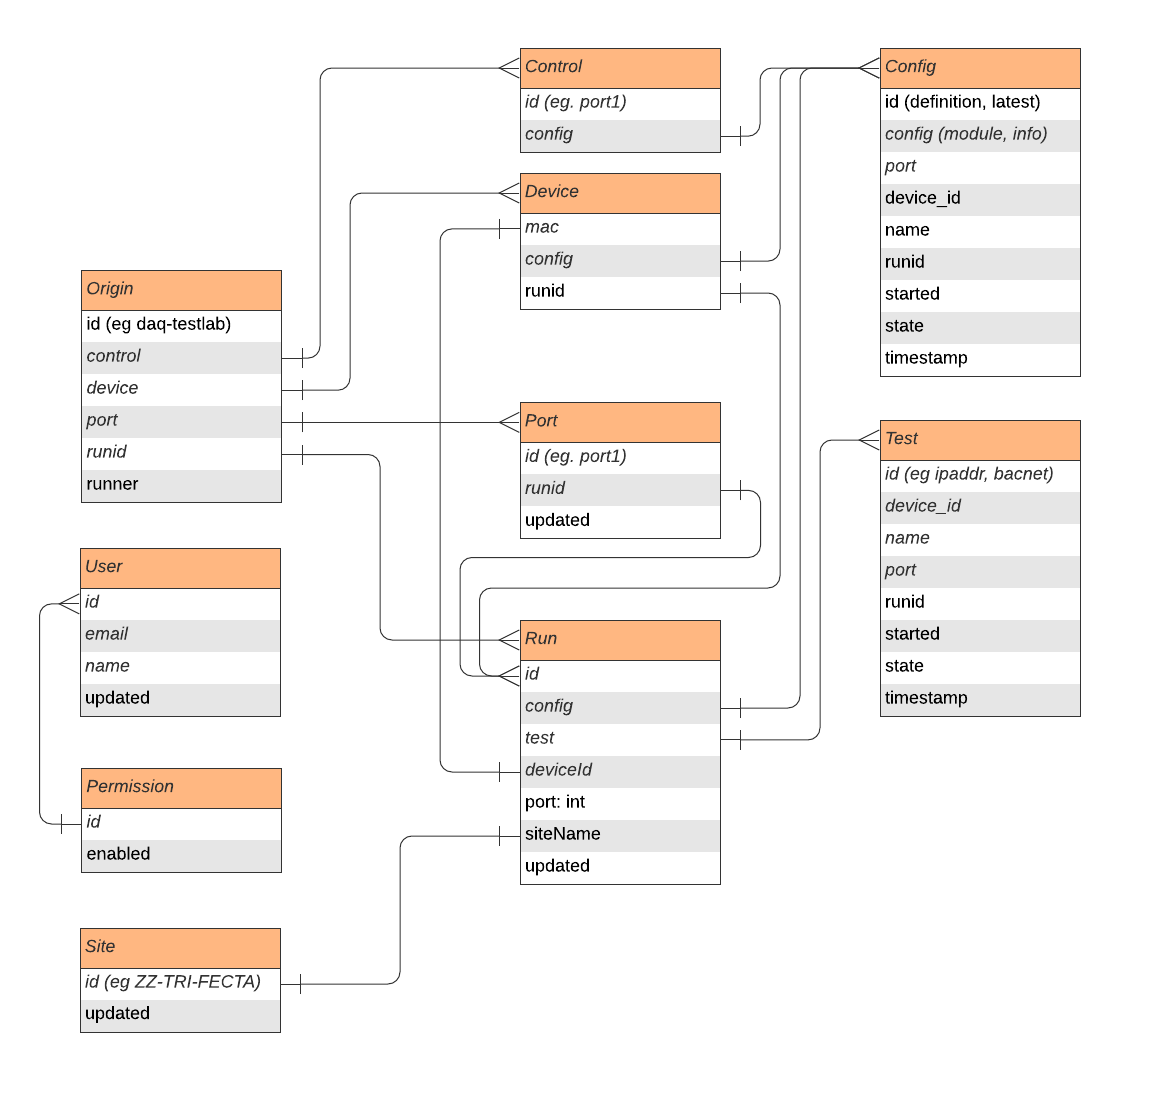
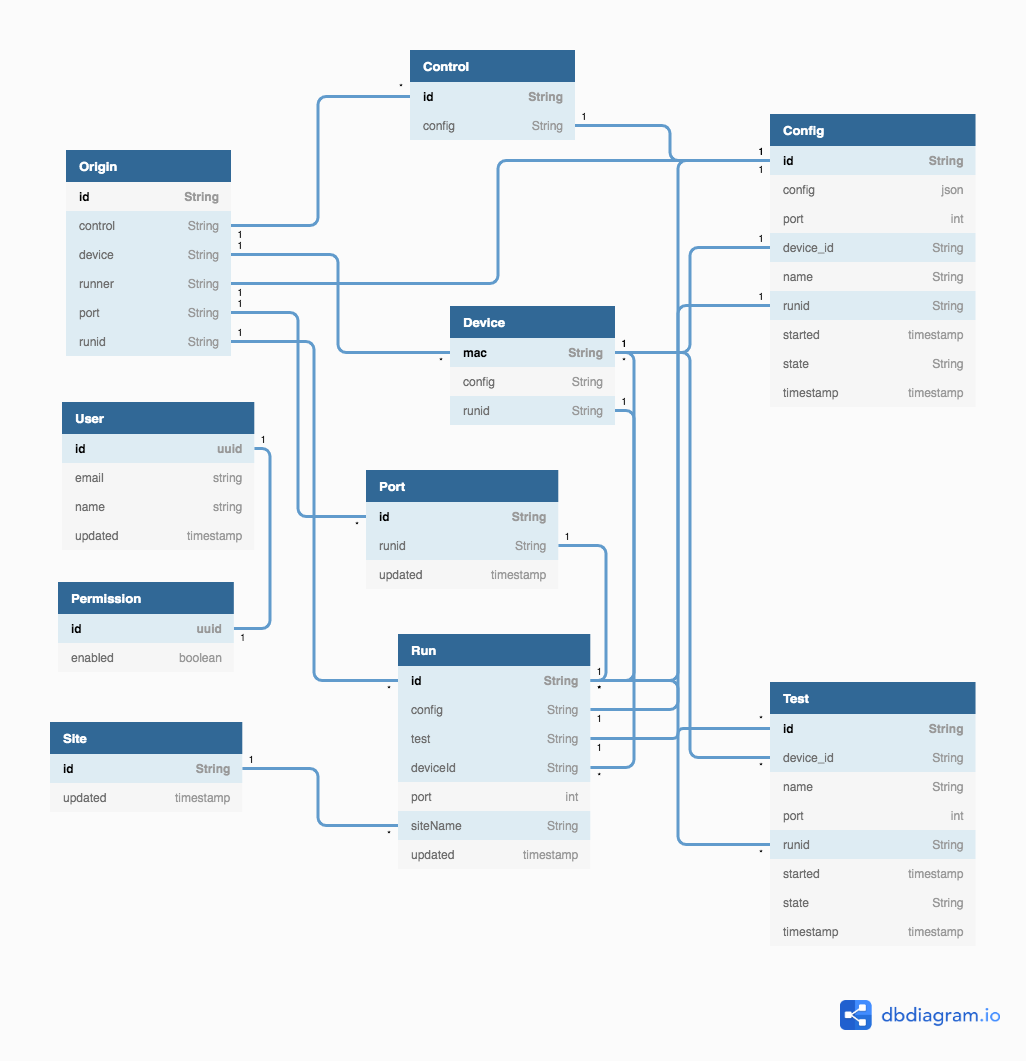
firebase diagram from text

diff --git a/docs/firebase.md b/docs/firebase.md
@@ -233,3 +233,4 @@ note right of WebApp: "Normal" state
 
 # Firebase Database Schema
 ![Diagram](Firebase Database.png)
+Generated with [dbdiagram.io](https://dbdiagram.io/) with this [file](firebase_schema)
